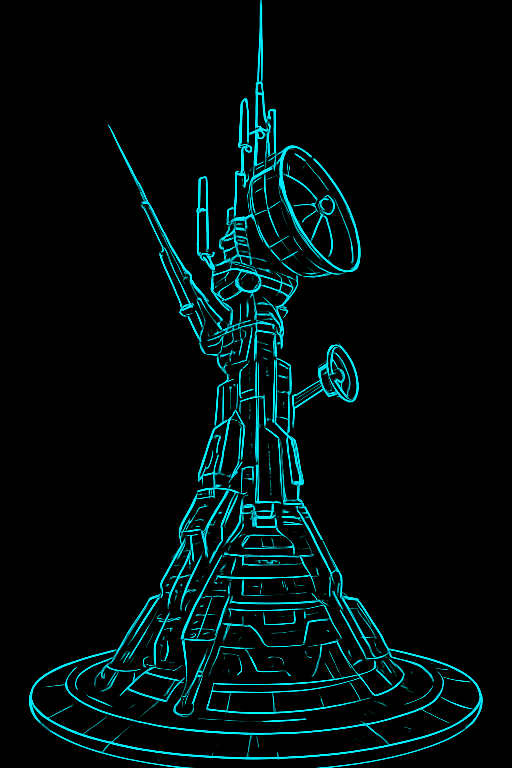
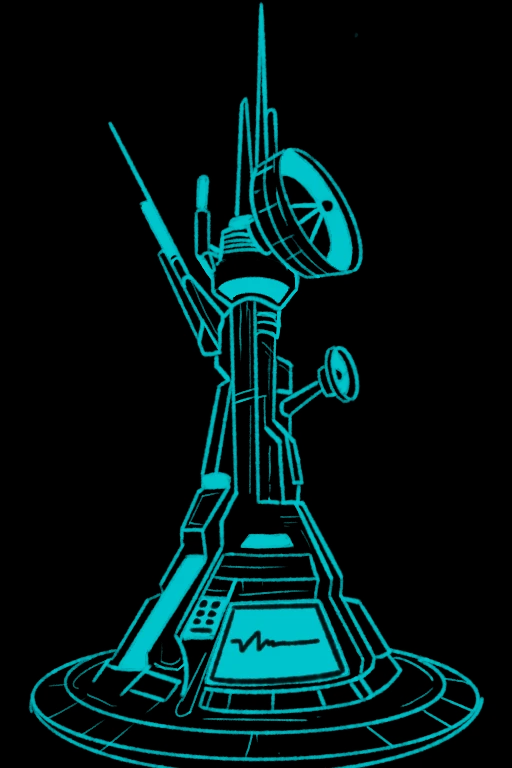
Refactor DeploySignaltower logic and UI behavior
Refactored DeploySignaltower logic to use updated methods and improved UI behavior by simplifying activation/deactivation logic, removing redundant methods, and adding new rendering properties. Replaced DeploySignaltowerShow.png and ConstructionBlueprintQET.png resources.

Changed region(s): [[0.0312, 0.0, 0.9688, 1.0]]

diff --git a/Content/ADV/Scenarios/Draedons/Quest/DeploySignaltowers/DeploySignaltowerCheck.cs b/Content/ADV/Scenarios/Draedons/Quest/DeploySignaltowers/DeploySignaltowerCheck.cs
@@ -47,7 +47,7 @@ namespace CalamityOverhaul.Content.ADV.Scenarios.Draedons.Quest.DeploySignaltowe
         /// </summary>
         private static void UpdateTowerCount() {
             DeployedTowerCount = 0;
-            if (TileProcessorLoader.TP_ID_To_InWorld_Count.TryGetValue(ModContent.TileType<DeploySignaltowerTile>(), out int count)) {
+            if (TileProcessorLoader.TP_ID_To_InWorld_Count.TryGetValue(TPUtils.GetID<DeploySignaltowerTP>(), out int count)) {
                 DeployedTowerCount = count;
             }
         }

diff --git a/Content/ADV/Scenarios/Draedons/Quest/DeploySignaltowers/DeploySignaltowerRender.cs b/Content/ADV/Scenarios/Draedons/Quest/DeploySignaltowers/DeploySignaltowerRender.cs
@@ -20,6 +20,8 @@ namespace CalamityOverhaul.Content.ADV.Scenarios.Draedons.Quest.DeploySignaltowe
 
         public override bool Active => showingImage || imageFadeProgress > 0f;
 
+        public override float RenderPriority => 0.9f;//稳定的在大部分UI之上，但低于模组UI
+
         //图片展示动画状态
         private static bool showingImage = false;
         private static float imageFadeProgress = 0f;
